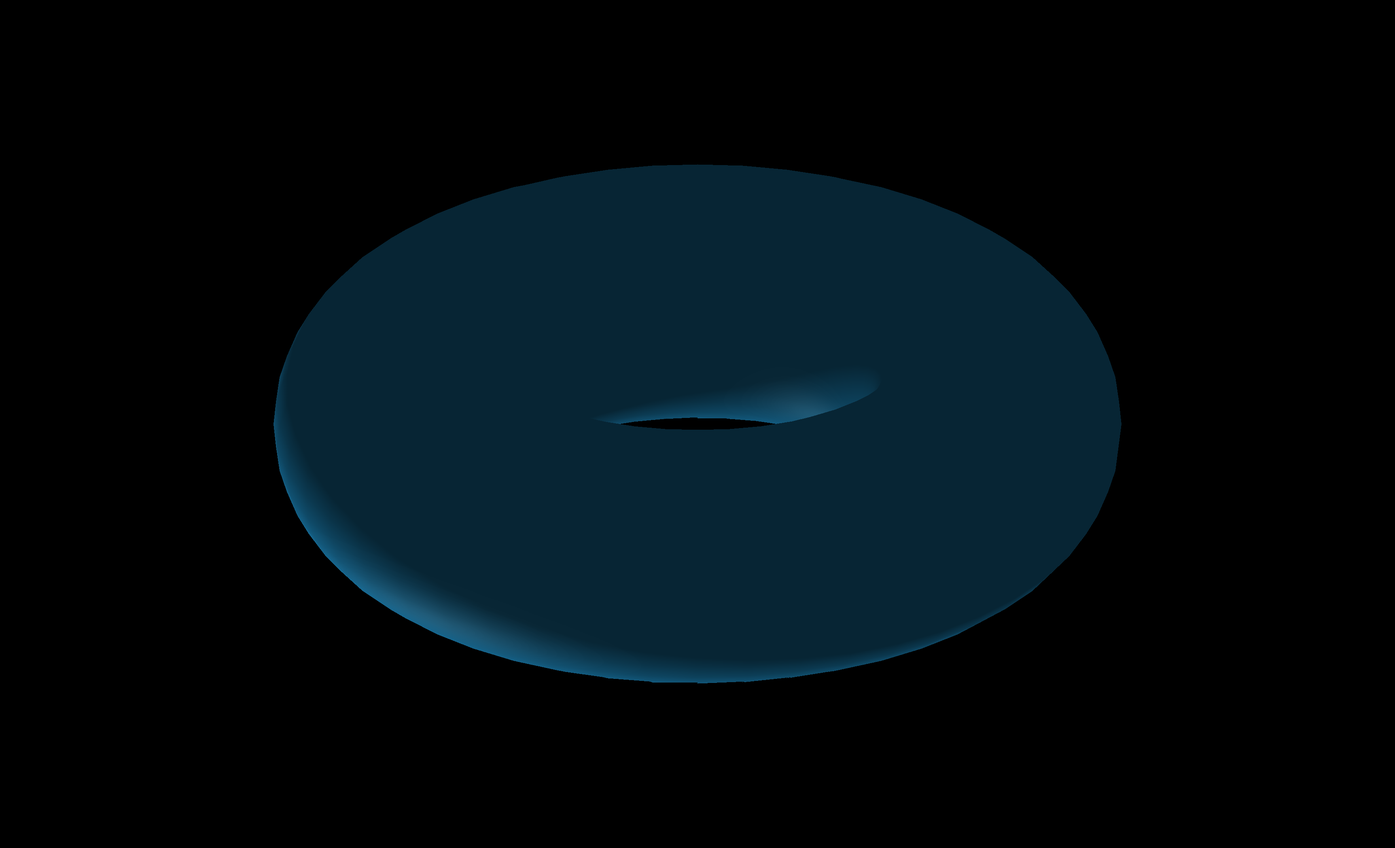
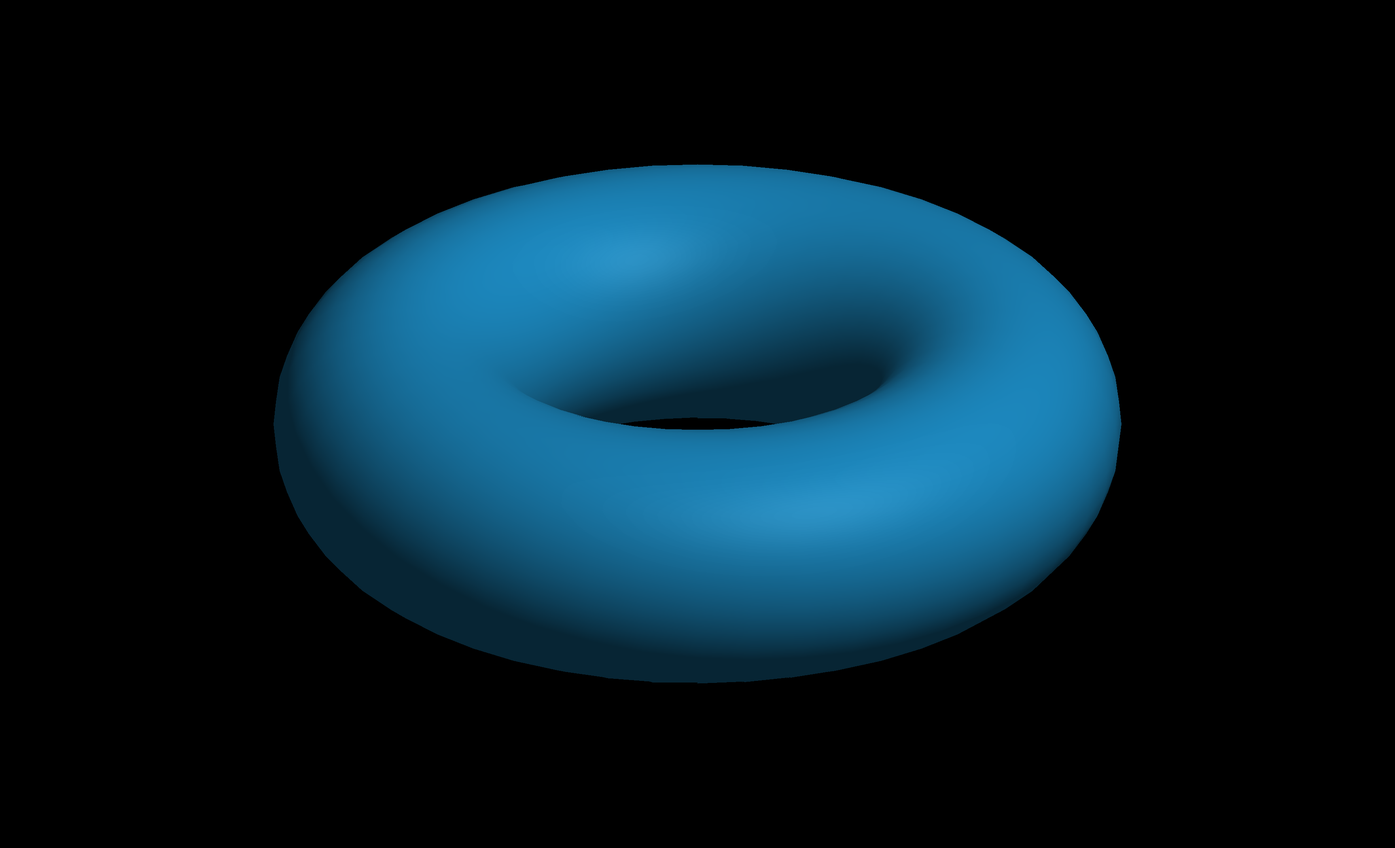
Add DirectionalLight intensity and document Three.js parity gaps.
Scale diffuse/specular in the light; keep export bins at intensity 1.0, refresh still-scene golden WebP, and update planning docs plus the local Three.js reference.

Changed region(s): [[0.1862, 0.1861, 0.8068, 0.8063]]

diff --git a/threejs/index.html b/threejs/index.html
@@ -93,7 +93,7 @@
 
       // --- Scene --------------------------------------------------------------
 
-      const FRUSTUM_SIZE = 40
+      const FRUSTUM_SIZE = 2.0
 
       const scene = new Scene()
       scene.background = new Color(0x444444)
@@ -107,7 +107,7 @@
         0.1,
         200,
       )
-      camera.position.set(0, 0.5, 30)
+      camera.position.set(0, 0.5, 1.0)
       camera.lookAt(new Vector3(0, 0, 0))
 
       const renderer = new WebGLRenderer({ antialias: true })
@@ -122,8 +122,8 @@
 
       const lights = [
         new DirectionalLight(0xffffff, 0),
-        new DirectionalLight(0xffffff, 0),
         new DirectionalLight(0xffffff, 3),
+        new DirectionalLight(0xffffff, 0),
       ]
       lights[0].position.set(0, 200, 0)
       lights[1].position.set(100, 200, 100)
@@ -135,10 +135,10 @@
       // --- TorusGeometry (browser defaults for #TorusGeometry) ----------------
 
       const TORUS = {
-        radius: 10,
-        tube: 3,
-        radialSegments: 16,
-        tubularSegments: 100,
+        radius: 0.7,
+        tube: 0.3,
+        radialSegments: 48,
+        tubularSegments: 32,
         arc: Math.PI * 2,
       }
 

diff --git a/src/lighting.rs b/src/lighting.rs
@@ -33,20 +33,28 @@ impl Material {
 
 pub struct DirectionalLight {
     toward_light: UnitVec3,
+    intensity: f32,
 }
 
 impl DirectionalLight {
     pub fn new(toward_light: UnitVec3) -> Self {
-        Self { toward_light }
+        Self::with_intensity(toward_light, 1.0)
+    }
+
+    pub fn with_intensity(toward_light: UnitVec3, intensity: f32) -> Self {
+        Self {
+            toward_light,
+            intensity,
+        }
     }
 
     pub fn diffuse_contrib(&self, normal: UnitVec3) -> f32 {
-        self.toward_light.dot(normal).max(0.0)
+        self.intensity * self.toward_light.dot(normal).max(0.0)
     }
 
     pub fn specular_contrib(&self, shininess: i32, normal: UnitVec3, toward_eye: UnitVec3) -> f32 {
         let half_vector = (self.toward_light + toward_eye).normalize();
-        normal.dot(half_vector).max(0.0).powi(shininess)
+        self.intensity * normal.dot(half_vector).max(0.0).powi(shininess)
     }
 }
 
@@ -87,6 +95,23 @@ mod tests {
             let toward_light: UnitVec3 = Vec3::new(1.0, 0.0, 1.0).into();
             let light = DirectionalLight::new(toward_light);
             assert_relative_eq!(light.diffuse_contrib(UnitVec3::Z), 2.0_f32.sqrt().recip());
+        }
+
+        #[test]
+        fn intensity_scales_diffuse_contrib() {
+            let normal = UnitVec3::Z;
+            let unit = DirectionalLight::new(TOWARD_LIGHT);
+            let triple = DirectionalLight::with_intensity(TOWARD_LIGHT, 3.0);
+            assert_relative_eq!(
+                triple.diffuse_contrib(normal),
+                3.0 * unit.diffuse_contrib(normal)
+            );
+        }
+
+        #[test]
+        fn zero_intensity_suppresses_diffuse_contrib() {
+            let light = DirectionalLight::with_intensity(TOWARD_LIGHT, 0.0);
+            assert_relative_eq!(light.diffuse_contrib(UnitVec3::Z), 0.0);
         }
     }
 
@@ -150,6 +175,18 @@ mod tests {
             let toward_eye: UnitVec3 = Vec3::new(-1.0, 0.0, 1.0).into();
             let light = DirectionalLight::new(toward_light);
             assert_relative_eq!(light.specular_contrib(1, UnitVec3::Z, toward_eye), 1.0);
+        }
+
+        #[test]
+        fn intensity_scales_specular_contrib() {
+            let normal = UnitVec3::Z;
+            let toward_eye = UnitVec3::Y;
+            let unit = DirectionalLight::new(TOWARD_LIGHT);
+            let triple = DirectionalLight::with_intensity(TOWARD_LIGHT, 3.0);
+            assert_relative_eq!(
+                triple.specular_contrib(1, normal, toward_eye),
+                3.0 * unit.specular_contrib(1, normal, toward_eye)
+            );
         }
     }
 
@@ -225,6 +262,27 @@ mod tests {
             assert_eq!(
                 material.shade(&light, UnitVec3::NEG_Z, UnitVec3::Z),
                 emissive
+            );
+        }
+
+        #[test]
+        fn intensity_scales_diffuse_and_specular_but_not_emissive() {
+            let normal = UnitVec3::Z;
+            let toward_eye = UnitVec3::Z;
+            let emissive = Rgb(10, 20, 30);
+            let diffuse = Rgb(40, 40, 40);
+            let specular = Rgb(50, 50, 50);
+            let material = Material::new(emissive, diffuse, specular, Some(1));
+            let unit = DirectionalLight::new(TOWARD_LIGHT);
+            let triple = DirectionalLight::with_intensity(TOWARD_LIGHT, 3.0);
+
+            assert_eq!(
+                material.shade(&unit, normal, toward_eye),
+                emissive + diffuse + specular
+            );
+            assert_eq!(
+                material.shade(&triple, normal, toward_eye),
+                emissive + diffuse * 3.0 + specular * 3.0
             );
         }
     }

diff --git a/src/bin/still-scene/main.rs b/src/bin/still-scene/main.rs
@@ -13,7 +13,7 @@ use thorus_forge::{Camera, FrameBuffer, Shape, WebpEncoder};
 use crate::kitty_terminal::KittyTerminal;
 
 const CAMERA_POS: Vec3 = Vec3::new(0.0, 0.5, -1.0);
-const LIGHT_DIRECTION: Vec3 = Vec3::new(1.0, 0.5, -1.0);
+const LIGHT_DIRECTION: Vec3 = Vec3::new(1.0, 2.0, -1.0);
 const OUT_PATH: &str = "still-scene.webp";
 // Geometry-browser MeshPhongMaterial: color 0x156289, emissive 0x072534,
 // specular 0x111111, shininess 30.

diff --git a/doc/notes-on-lighting.md b/doc/notes-on-lighting.md
@@ -1,0 +1,150 @@
+# Notes on lighting
+
+Findings from comparing **thorus-forge** export renders to the local Three.js reference (`threejs/index.html`) and the [official geometry browser TorusGeometry scene](https://threejs.org/docs/scenes/geometry-browser.html#TorusGeometry). Use this when tuning Phase 2 materials, light intensity, and export-bin parity — **not** as a substitute for `doc/planning/project-spec.md` or `doc/planning/project-breakdown.md`.
+
+## Current policy — export-bin light intensity
+
+**Export bins (`still-scene`, `animated-scene`) use `DirectionalLight::new(...)` — intensity `1.0` — until the multi-light milestone.** Do not raise single-light intensity to match the geometry browser’s per-light **`intensity` 3**; our byte-space Phong path clips much earlier than Three.js linear lighting (see below). Use **`with_intensity`** only in unit tests or deliberate experiments. The browser’s **`intensity` 3** on **three** summed lights is deferred to **Multi-light** in `doc/planning/project-breakdown.md`.
+
+---
+
+## What we compare
+
+| | **thorus-forge (`still-scene`)** | **Local reference (`threejs/index.html`)** |
+|--|----------------------------------|--------------------------------------------|
+| Material | `Material::new(Rgb(7, 37, 52), Rgb(21, 98, 137), Rgb(17, 17, 17), Some(30))` | `MeshPhongMaterial`: color `0x156289`, emissive `0x072534`, specular `0x111111`, shininess `30` |
+| Shading | Per-pixel Phong via `Material::shade` + `PhongShadedTriangle` | `MeshPhongMaterial` (smooth Phong) |
+| Camera | Orthographic, eye `(0, 0.5, −1)` | Orthographic, eye `(0, 0.5, 30)` (same look-at target) |
+| Torus | `meshes::torus(48, 32)` — default radii `0.7` / `0.3`, ring in **XZ** | `TorusGeometry(0.7, 0.3, 48, 32)` + `rotation.x = π/2` |
+| Background | Black (`FrameBuffer` default clear) | `0x444444` |
+| Lights | One `DirectionalLight` at **`intensity` 1.0** (`DirectionalLight::new`) | Three directionals (see **Reference light setup** below) |
+
+Palette hex values match; **pixel values often do not**, even if export-bin intensity were raised (e.g. experiments with **`with_intensity(..., 3.0)`**).
+
+---
+
+## How our lighting works today
+
+**`DirectionalLight`** (`src/lighting.rs`):
+
+- Stores **`toward_light`** (unit vector from surface toward the light) and **`intensity`** (`f32`).
+- **`new(toward_light)`** defaults intensity to **`1.0`**; **`with_intensity(toward_light, intensity)`** for explicit values.
+- **`diffuse_contrib`** and **`specular_contrib`** multiply Lambert / Blinn–Phong terms by **`intensity`** inside the light — not in **`Material::shade`**.
+
+**`Material::shade`** composes:
+
+```text
+emissive + diffuse × diffuse_contrib + specular × specular_contrib
+```
+
+**`Rgb`** (`src/framebuffer/colors.rs`):
+
+- **`u8`** channels are used **directly** in lighting math.
+- **`Rgb * f32`** scales each channel, rounds, then clamps to **`[0, 255]`**.
+- **`Rgb + Rgb`** saturates per channel at **`255`**.
+
+There is **no sRGB ↔ linear conversion** and **no tone mapping**. What you encode in **`Material`** is what gets multiplied and added in “display byte” space.
+
+---
+
+## How Three.js differs (why “intensity 3” ≠ same brightness)
+
+Three.js **`MeshPhongMaterial`** (r173 in our reference):
+
+1. Treats material **`color`**, **`emissive`**, and **`specular`** as **sRGB** inputs.
+2. Converts them to **linear** color for the lighting equation.
+3. Applies white **`DirectionalLight`** color × **`intensity`** × Lambert / Blinn–Phong terms in linear space.
+4. Sums emissive once per fragment (also handled in linear space).
+5. Converts the result back to **sRGB** for the framebuffer (renderer **`outputColorSpace`**).
+
+So **`intensity: 3`** in Three.js means “3× in **linear** lighting space, then encode for display.” In thorus-forge it means “3× the **raw byte** values, then clamp.” Those are **not equivalent**, especially for mid-tone palette colors.
+
+### Worked example (one light, full Lambert, intensity 3)
+
+Material palette diffuse **`Rgb(21, 98, 137)`**, emissive **`Rgb(7, 37, 52)`**, ignore specular for simplicity.
+
+| | **thorus-forge** | **Three.js (approx.)** |
+|--|------------------|------------------------|
+| Emissive | `(7, 37, 52)` | `(7, 37, 52)` after linear → sRGB round-trip (similar) |
+| Diffuse × 3 @ `N·L = 1` | `(63, 294→255, 411→255)` | ~`(59, 293, 411)` in linear → sRGB ~`(59, 158, 219)` |
+| **Diffuse + emissive** | **`(70, 255, 255)`** — G/B **saturated** | **`~(66, 158, 219)`** — no channel pegged at 255 |
+
+At intensity **3**, our pipeline **clips green and blue early** on well-lit fragments; Three.js stays darker and less neon because lighting runs in linear space first.
+
+**Takeaway:** matching Three.js “feel” requires more than copying hex colors and setting **`intensity = 3`**. A linear color path (or deliberate tuning scalars) is needed for numeric parity.
+
+---
+
+## Reference light setup (`threejs/index.html`)
+
+The HUD claims three white directionals at intensity **3**, but the current script is:
+
+```javascript
+const lights = [
+  new DirectionalLight(0xffffff, 0),
+  new DirectionalLight(0xffffff, 0),
+  new DirectionalLight(0xffffff, 3),
+]
+```
+
+**Only the third light contributes.** The first two have intensity **0**.
+
+The [official geometry browser](https://threejs.org/docs/scenes/geometry-browser.html#TorusGeometry) uses **three** active lights, all at intensity **3**:
+
+```javascript
+lights[0] = new DirectionalLight(0xffffff, 3)
+lights[1] = new DirectionalLight(0xffffff, 3)
+lights[2] = new DirectionalLight(0xffffff, 3)
+```
+
+Positions match our Phase 2 breakdown: **`(0, 200, 0)`**, **`(100, 200, 100)`**, **`(-100, -200, -100)`**.
+
+When comparing **`still-scene`** (one light @ **`intensity` 1.0**) to the local HTML file with only one active Three.js light @ **`intensity` 3**, intensities still do not match — and Rust would look **brighter still** at **`intensity` 3** because of byte-space vs linear color math. That mismatch in the reference file should be fixed when we use it as a golden target for **multi-light**; it does **not** explain Rust looking brighter at equal nominal intensity (fewer active Three.js lights would make Three.js **darker**).
+
+---
+
+## Other comparison caveats
+
+These affect highlight placement and side-by-side viewing; they are secondary to the color-space issue but worth keeping aligned.
+
+| Topic | thorus-forge | Three.js reference |
+|-------|--------------|-------------------|
+| **Light direction** | e.g. `normalize(1, 0.5, −1)` in `still-scene` | From light **position** toward the scene; e.g. `(-100, −200, −100)` → ~`(0.44, 0.87, 0.22)` |
+| **Torus orientation** | Default mesh: major ring in **XZ** | `torus.rotation.x = π/2` |
+| **Background** | Black clear | `0x444444` — torus on black can **look** brighter in a split view even when torus pixels are unchanged |
+| **Multi-light** | Single light until multi-light milestone | Official browser sums **three** contributions (each scaled by intensity in linear space) |
+
+---
+
+## Emissive
+
+Both systems add **emissive once per fragment**, independent of **`N·L`**. In our pipeline emissive is full **`u8`** magnitude before lit terms are added; at high **`intensity`**, lit diffuse/specular saturate on top. Three.js adds emissive in linear space, which keeps the base glow comparatively subdued before display encoding.
+
+---
+
+## Implications for Phase 2
+
+From `doc/planning/project-breakdown.md`:
+
+1. **Material — explicit Phong colors (single light):** palette and **`DirectionalLight::intensity`** are in place; **export bins stay at `intensity` 1.0** (`DirectionalLight::new`). **`FrameBuffer::clear(Rgb(68, 68, 68))`** still open.
+2. **Multi-light:** sum per-light diffuse/specular in **`Shape::render`**; wire three browser directionals at **`intensity` 3** in export bins (first time **`intensity` 3** ships in bins). Even then, do **not** expect pixel match without a linear color path.
+3. **Parity goal:** reproduce the geometry browser **look** in export artifacts — eyeball + golden WebPs — not bit-identical Three.js output unless we add sRGB/linear handling.
+
+### Practical guidance
+
+- **Export bins:** **`DirectionalLight::new`** only (**`intensity` 1.0**) until multi-light lands.
+- **Do not** raise single-light export-bin intensity to **`3.0`** expecting Three.js parity — Rust clips earlier in byte space (see worked example above).
+- **Tests / experiments:** use **`with_intensity`**; document any non-default values in commit messages or this file.
+- **Fix** `threejs/index.html` so all three lights use intensity **3** when that file is the reference for the multi-light milestone.
+- **Consider** (future): sRGB ↔ linear on material inputs and fragment output; optional tone mapping only if exports need it — out of scope until parity testing demands it.
+
+---
+
+## Related code and docs
+
+- **`src/lighting.rs`** — **`Material`**, **`DirectionalLight`**, unit tests for intensity scaling.
+- **`src/framebuffer/colors.rs`** — **`Rgb`** arithmetic (saturating add, clamped multiply).
+- **`src/bin/still-scene/main.rs`** — export bin wiring and material constants.
+- **`threejs/index.html`** — local orthographic Three.js reference scene.
+- **`doc/planning/project-spec.md`** — Phase 2 lighting target and known gaps vs browser reference.
+- **`doc/planning/project-breakdown.md`** — open milestones (**Material**, **Multi-light**, …).

diff --git a/doc/planning/project-breakdown.md b/doc/planning/project-breakdown.md
@@ -93,12 +93,12 @@ This document describes how I plan to approach the project iteratively.
 
 **North star:** reproduce the **lighting and color feel** of the [Three.js TorusGeometry browser](https://threejs.org/docs/scenes/geometry-browser.html#TorusGeometry) in **export artifacts** — **not** wireframe overlay, flat shading, extended torus API, or a live viewer. **Smooth Phong** and **`meshes::torus(ring, tube)`** stay as-is. **Primary output:** **`still-scene`** / **`animated-scene`** WebPs (Kitty terminal for stills); **`winit`** deferred.
 
-**Phase 2 reference palette (export bins “done” look):** matches [Three.js geometry browser TorusGeometry](https://threejs.org/docs/scenes/geometry-browser.html#TorusGeometry) **`MeshPhongMaterial`** — diffuse **`0x156289`** (**`Rgb(21, 98, 137)`**), emissive **`0x072534`** (**`Rgb(7, 37, 52)`**), specular **`0x111111`** (**`Rgb(17, 17, 17)`** — **`MeshPhongMaterial`** default; not overridden in the demo), **`shininess` 30** (default); scene background **`0x444444`** (**`Rgb(68, 68, 68)`**); three white **`DirectionalLight`** at **`intensity` 3** with positions **`(0, 200, 0)`**, **`(100, 200, 100)`**, **`(-100, -200, -100)`** (multi-light milestone).
+**Phase 2 reference palette (export bins “done” look):** matches [Three.js geometry browser TorusGeometry](https://threejs.org/docs/scenes/geometry-browser.html#TorusGeometry) **`MeshPhongMaterial`** — diffuse **`0x156289`** (**`Rgb(21, 98, 137)`**), emissive **`0x072534`** (**`Rgb(7, 37, 52)`**), specular **`0x111111`** (**`Rgb(17, 17, 17)`** — **`MeshPhongMaterial`** default; not overridden in the demo), **`shininess` 30** (default); scene background **`0x444444`** (**`Rgb(68, 68, 68)`**). **Light intensity:** export bins use **`DirectionalLight::new`** (**`intensity` 1.0**) through the single-light milestone; the browser’s three white **`DirectionalLight`** at **`intensity` 3** (positions **`(0, 200, 0)`**, **`(100, 200, 100)`**, **`(-100, -200, -100)`**) lands in **Multi-light** — see **`doc/notes-on-lighting.md`** for why **`intensity` 3** is not copied into single-light bins today.
 
 ### [ ] Material — explicit Phong colors (single light)
 
-- **Goal:** Refactor **`Material`** onto **`Shape`** and decouple it from the light source. **`Material`**: **`diffuse`**, **`emissive`**, **`specular`** (**`Rgb`**) + **`shininess`** (**`i32`**) — retire factor-based **`Material::matte`** / **`Material::shiny`**. Extend **`DirectionalLight`** with **`intensity`** (**white only**; colored lights deferred). Refactor **`Shape::render`** to take **`&DirectionalLight`** (single source) and evaluate diffuse/specular from explicit material colors; add **emissive** once per fragment. **`FrameBuffer::clear(Rgb)`** for explicit scene background. **No `Scene` struct yet** — export bins wire one light + shape directly. **Defer multi-light summation** to the next milestone (**do not** take **`&[DirectionalLight]`** here).
-- **Outcome:** **`still-scene`** / **`animated-scene`** use the palette above (diffuse **`0x156289`**, emissive **`0x072534`**, specular **`0x111111`**, **`shininess` 30**, clear **`0x444444`**) with **one** white directional light; unit tests cover explicit material colors and single-light Phong math.
+- **Goal:** Refactor **`Material`** onto **`Shape`** and decouple it from the light source. **`Material`**: **`diffuse`**, **`emissive`**, **`specular`** (**`Rgb`**) + **`shininess`** (**`i32`**) — retire factor-based **`Material::matte`** / **`Material::shiny`**. Extend **`DirectionalLight`** with **`intensity`** (**white only**; colored lights deferred). Refactor **`Shape::render`** to take **`&DirectionalLight`** (single source) and evaluate diffuse/specular from explicit material colors; add **emissive** once per fragment. **`FrameBuffer::clear(Rgb)`** for explicit scene background. **No `Scene` struct yet** — export bins wire one light + shape directly. **Defer multi-light summation** to the next milestone (**do not** take **`&[DirectionalLight]`** here). **Export bins:** **`DirectionalLight::new`** only (**`intensity` 1.0**); do not match browser per-light **`intensity` 3** on a single light yet (**see **`doc/notes-on-lighting.md`**).
+- **Outcome:** **`still-scene`** / **`animated-scene`** use the palette above (diffuse **`0x156289`**, emissive **`0x072534`**, specular **`0x111111`**, **`shininess` 30**, clear **`0x444444`**) with **one** white directional light at **`intensity` 1.0**; unit tests cover explicit material colors, single-light Phong math, and **`with_intensity`** scaling.
 
 ### [ ] Multi-light — summed directional contributions
 
@@ -127,7 +127,7 @@ This document describes how I plan to approach the project iteratively.
 ## Notes / deferred
 
 - **Current module layout:** **`geometry`** — **`Mesh`**, **`Facet`**, **`Triangle`**, **`UnitVec3`** (re-exported; private **`geometry/{mesh,facet,unit_vec3}.rs`**). **`meshes`** — **`cube()`**, **`dodecahedron()`**, **`sphere(splits)`**, **`torus(ring_segments, tube_segments)`** (re-exported; private **`meshes/{cube,dodecahedron,sphere,torus}.rs`**). Scene-level **`Shape`** (**`mesh` + `color`**, **`Shape::render`**), scene constants — **`src/lib.rs`**. Export bins — **`src/bin/`** (**`still-scene`**, **`animated-scene`**).
-- **Export bins:** **`animated-scene`** (**`src/bin/animated-scene.rs`**) — **lossless animated WebP** at **`SCENE_WIDTH` × `SCENE_HEIGHT`** (**800×600**): **`meshes::torus(48, 32)`** at the origin with **world-fixed **`R_z R_y R_x`** tumble** (**`α = β = γ = t`**, seamless loop), **fixed camera** (eye **`(0, 0.5, −1)`**), **Phong** **`DirectionalLight`**, **`ANIMATED_SCENE_FRAME_COUNT`** frames at **`ANIMATED_SCENE_FRAME_SPACING_MS`** (default output **`scene.webp`**, overridable via argv). **`still-scene`** (**`src/bin/still-scene/`** — **`main.rs`** + private **`kitty_terminal.rs`**) — same **Phong** **`meshes::torus(48, 32)`** and fixed camera (**explicit **`Material`**); framebuffer size follows **terminal pixel dimensions** (**`crossterm`** window size, with a cell-count fallback when pixels are unavailable). **Primary presentation:** centered **24-bit RGB** image via the **Kitty graphics protocol** (alternate screen, raw mode, any-key dismiss); **in parallel** (background thread) writes **`still-scene.webp`** at the same resolution (lossless). Cube regression: **`tests/draw_unit_cube.rs`** (no **`still-cube`** bin).
+- **Export bins:** **`animated-scene`** (**`src/bin/animated-scene.rs`**) — **lossless animated WebP** at **`SCENE_WIDTH` × `SCENE_HEIGHT`** (**800×600**): **`meshes::torus(48, 32)`** at the origin with **world-fixed **`R_z R_y R_x`** tumble** (**`α = β = γ = t`**, seamless loop), **fixed camera** (eye **`(0, 0.5, −1)`**), **Phong** **`DirectionalLight::new`** (**`intensity` 1.0**), **`ANIMATED_SCENE_FRAME_COUNT`** frames at **`ANIMATED_SCENE_FRAME_SPACING_MS`** (default output **`scene.webp`**, overridable via argv). **`still-scene`** (**`src/bin/still-scene/`** — **`main.rs`** + private **`kitty_terminal.rs`**) — same **Phong** **`meshes::torus(48, 32)`**, fixed camera, geometry-browser **`Material`**, **`DirectionalLight::new`** (**`intensity` 1.0**); framebuffer size follows **terminal pixel dimensions** (**`crossterm`** window size, with a cell-count fallback when pixels are unavailable). **Primary presentation:** centered **24-bit RGB** image via the **Kitty graphics protocol** (alternate screen, raw mode, any-key dismiss); **in parallel** (background thread) writes **`still-scene.webp`** at the same resolution (lossless). Cube regression: **`tests/draw_unit_cube.rs`** (no **`still-cube`** bin). **Lighting notes:** **`doc/notes-on-lighting.md`** (byte-space vs Three.js linear, **`intensity` policy**).
 - **Phase 1 order:** **`Camera: arbitrary eye`** **[x]** … **`Torus: filled + smooth shading`** **[x]** (**`meshes::torus`**, export bins). **Phase 1 complete** (orthographic CPU stack). **Next — Phase 2:** **`Material — explicit Phong colors (single light)`** → **`Multi-light`** → optional stretch **`Perspective projection (CPU)`** → optional stretch **`Positional lights`**. **Phase 3:** **`wgpu`**. **Out of Phase 2:** wireframe overlay, flat shading, extended torus API, live **`winit`** viewer. **Overall rhythm:** geometry + Phong + depth on CPU first; Phase 2 enriches **materials/lights/colors** export-first.
 - **Torus wireframe (skipped):** Planned **Option A** (back-face–aware hull edges) and optional **Option B** (hidden-line / depth along edges) are **deferred indefinitely**. **Cube wireframe** already covered edge classification; **depth + Phong** on **sphere** cover the overlap case torus wireframe was meant to rehearse. Revisit only if a **wireframe-only** torus export becomes a goal.
 - **Golden image regression tests:** add when eyeballing saturates — decode `.webp` to RGB and compare, or compare raw framebuffer bytes **before** encode (still vs animated).

diff --git a/doc/planning/project-spec.md b/doc/planning/project-spec.md
@@ -64,8 +64,8 @@ Optional stretch beyond these phases is allowed (e.g. CPU perspective in Phase 2
 
 - **Cube / dodecahedron:** faceted (**`Facet::with_facet_normal`** duplicates the facet normal at each corner).
 - **Sphere / torus:** smooth vertex normals (**`Facet::with_vertex_normals`**); **Phong** raster (**`PhongShadedTriangle`**: interpolate normals per pixel, renormalize, shade).
-- **Lighting (current):** **`DirectionalLight`** (**`direction`** only for now) with explicit **`Material`** (**`diffuse`**, **`emissive`**, **`specular`**, **`shininess`**). **`Shape::render`** passes constant **`toward_eye = −Camera::direction()`** under orthographic projection.
-- **Lighting (Phase 2 target):** decouple **lights** from **materials** in two steps. **First milestone:** per-shape **`Material`** with geometry-browser colors — diffuse **`0x156289`**, emissive **`0x072534`**, specular **`0x111111`**, **`shininess` 30** — on **`Shape`**; **`DirectionalLight`** (**`direction`** + **`intensity`**, white only); **`Shape::render(fb, camera, &light)`** with single-light Phong; **`FrameBuffer::clear(Rgb(68, 68, 68))`**. **Second milestone:** **`Shape::render`** takes **`&[DirectionalLight]`** and sums contributions; export bins add the browser’s three directionals (**`intensity` 3**). **Optional stretch (after perspective):** **positional** lights (point lights with per-fragment **`toward_light`**). **Emissive** added once per fragment throughout. **`Scene`** type deferred until multi-light bin wiring earns it.
+- **Lighting (current):** **`DirectionalLight`** (**`toward_light`** + **`intensity`**, default **`1.0`** via **`new`**) with explicit **`Material`** (**`diffuse`**, **`emissive`**, **`specular`**, **`shininess`**). **`Shape::render`** passes constant **`toward_eye = −Camera::direction()`** under orthographic projection. **Export bins** use **`DirectionalLight::new`** only (**`intensity` 1.0**); **`with_intensity`** is for tests and experiments — **not** for matching the browser’s per-light **`intensity` 3** on a single light (**see **`doc/notes-on-lighting.md`**).
+- **Lighting (Phase 2 target):** decouple **lights** from **materials** in two steps. **First milestone:** per-shape **`Material`** with geometry-browser colors — diffuse **`0x156289`**, emissive **`0x072534`**, specular **`0x111111`**, **`shininess` 30** — on **`Shape`**; **`DirectionalLight`** (**`direction`** + **`intensity`**, white only); **`Shape::render(fb, camera, &light)`** with single-light Phong; **`FrameBuffer::clear(Rgb(68, 68, 68))`**; export bins with **one** light at **`intensity` 1.0**. **Second milestone:** **`Shape::render`** takes **`&[DirectionalLight]`** and sums contributions; export bins add the browser’s three directionals (**`intensity` 3** each). **Optional stretch (after perspective):** **positional** lights (point lights with per-fragment **`toward_light`**). **Emissive** added once per fragment throughout. **`Scene`** type deferred until multi-light bin wiring earns it.
 - **Historical note:** **Gouraud** intensity interpolation was an intermediate milestone; only **Phong** remains in code.
 
 Phase 1 milestone ambition (from earlier discussion): interpolated vertex attributes (**level 3**) before treating phase 1 as complete. **Phase 2** adds explicit material/light colors; **perspective-correct texturing (**level 4**)** remains optional stretch.
@@ -76,7 +76,7 @@ Phase 1 milestone ambition (from earlier discussion): interpolated vertex attrib
 
 - **Current pipeline:** **`geometry::Mesh`** stores indexed **`Facet`**s + **`Vec3`** positions. **`Mesh::visible_triangles(view_direction)`** culls back faces and yields world-space **`Triangle`** records (corners + per-vertex **`UnitVec3`** normals). Scene-level **`Shape`** (**`mesh` + `color`**, **`src/lib.rs`**) projects each **`Triangle`** via **`Camera::transform`** → **`FbPixel`** (pixel **`xy`** + view-space **`depth`**) and draws with **`PhongShadedTriangle`**. **`meshes::{cube,dodecahedron,sphere,torus}`** are procedural builders on that stack.
 - **Depth:** **`FrameBuffer::write_pixel`** keeps the nearer fragment (**smaller view-space **`z`**).
-- **Phase 2 gaps (vs [Three.js TorusGeometry browser](https://threejs.org/docs/scenes/geometry-browser.html#TorusGeometry) reference):** export bins still use approximate colors (diffuse/specular **`Rgb(44, 94, 179)`**, emissive **`Rgb(8, 17, 32)`**, **`shininess` 100** vs reference diffuse **`0x156289`**, emissive **`0x072534`**, specular **`0x111111`**, **`shininess` 30**); **`DirectionalLight`** lacks **`intensity`**; black clear only (reference **`0x444444`**); single light (reference: three white directionals at **`intensity` 3**). **Out of Phase 2 scope (by choice):** wireframe overlay, flat shading, extended torus API (**`radius`**, **`tube`**, **`arc`**), live **`winit`** viewer / GUI.
+- **Phase 2 gaps (vs [Three.js TorusGeometry browser](https://threejs.org/docs/scenes/geometry-browser.html#TorusGeometry) reference):** **`still-scene`** uses geometry-browser **`Material`** palette; **`animated-scene`** still uses legacy approximate colors until Material milestone completes; **`DirectionalLight::intensity`** shipped (**export bins deliberately at **`1.0`**, not browser **`3`** on one light — **`doc/notes-on-lighting.md`**); black clear only (reference **`0x444444`**); single light (reference: **three** directionals at **`intensity` 3**, summed in **Multi-light**). **Out of Phase 2 scope (by choice):** wireframe overlay, flat shading, extended torus API (**`radius`**, **`tube`**, **`arc`**), live **`winit`** viewer / GUI.
 - **No separate `Vertex` type:** positions live in **`Mesh`**; normals live on **`Facet`**; surface tint is **`Shape::color`** scaled by lighting intensity (Phase 2 moves full **`Material`** onto **`Shape`**).
 
 ---
@@ -125,8 +125,8 @@ Earlier phase-1 work exercised **wireframe**, **DDA lines**, **quad fill**, **`d
 
 ## Deferred checkpoints (do not lose track)
 
-1. **Phase 2 — material (single light)** — explicit **`Material`** on **`Shape`** (diffuse **`0x156289`**, emissive **`0x072534`**, specular **`0x111111`**, **`shininess` 30**); **`DirectionalLight`** **`intensity`** (white only); **`FrameBuffer::clear(Rgb(68, 68, 68))`**; export bins with **one** light.
-2. **Phase 2 — multi-light** — **`Shape::render(&[DirectionalLight])`** summation; three white directionals at **`intensity` 3** (geometry-browser positions).
+1. **Phase 2 — material (single light)** — explicit **`Material`** on **`Shape`** (diffuse **`0x156289`**, emissive **`0x072534`**, specular **`0x111111`**, **`shininess` 30**); **`DirectionalLight`** **`intensity`** (white only; **`new`** → **`1.0`** in export bins); **`FrameBuffer::clear(Rgb(68, 68, 68))`**; export bins with **one** light at **`intensity` 1.0**.
+2. **Phase 2 — multi-light** — **`Shape::render(&[DirectionalLight])`** summation; three white directionals at **`intensity` 3** each in export bins (geometry-browser positions); first milestone that raises bin intensity above **`1.0`**.
 3. **Phase 2 stretch — perspective projection (CPU)** — optional; only if appetite after materials/lights.
 4. **Phase 2 stretch — positional lights** — optional; point lights with per-fragment **`toward_light`**; after perspective stretch (or after multi-light if perspective skipped).
 5. **Phase 3 — wgpu** — swapchain/surface, buffers, pipeline state, shaders, depth test, culling; **wgpu convention alignment** (depth range, winding, NDC vs framebuffer); **perspective in GPU** if not done on CPU.

diff --git a/AGENTS.md b/AGENTS.md
@@ -8,6 +8,7 @@ Personal learning project: a **3D software rasterizer** in **Rust**, developed p
 
 - `doc/planning/project-spec.md` — goals, math, dependencies, coordinate conventions, raster strategy.
 - `doc/planning/project-breakdown.md` — phased milestones and expected artifacts (WebP stills/animations).
+- `doc/notes-on-lighting.md` — Three.js parity notes; export bins use **`DirectionalLight::new`** (**`intensity` 1.0**) until multi-light.
 
 When editing **`doc/planning/project-breakdown.md`**, **do not change completed milestones** (items marked **`[x]`**) unless the **user explicitly asks** to revise that finished task. Prefer updating **open** milestones (`[ ]`) and the **Notes / deferred** section when the plan or shipped reality needs clarification.
 
